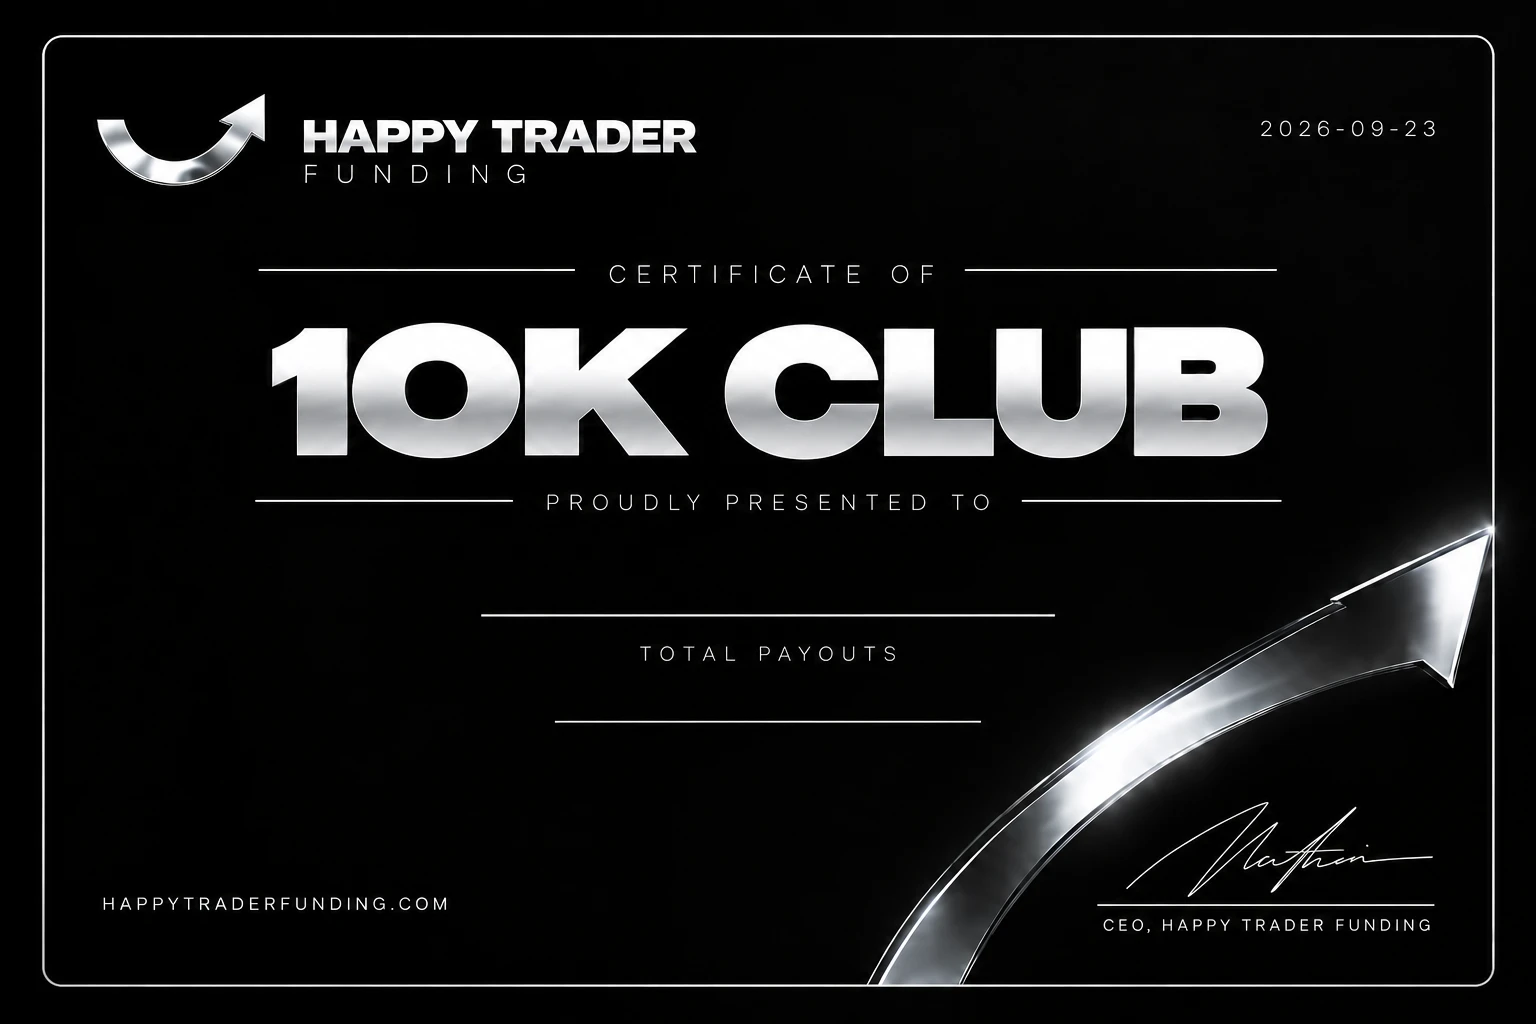
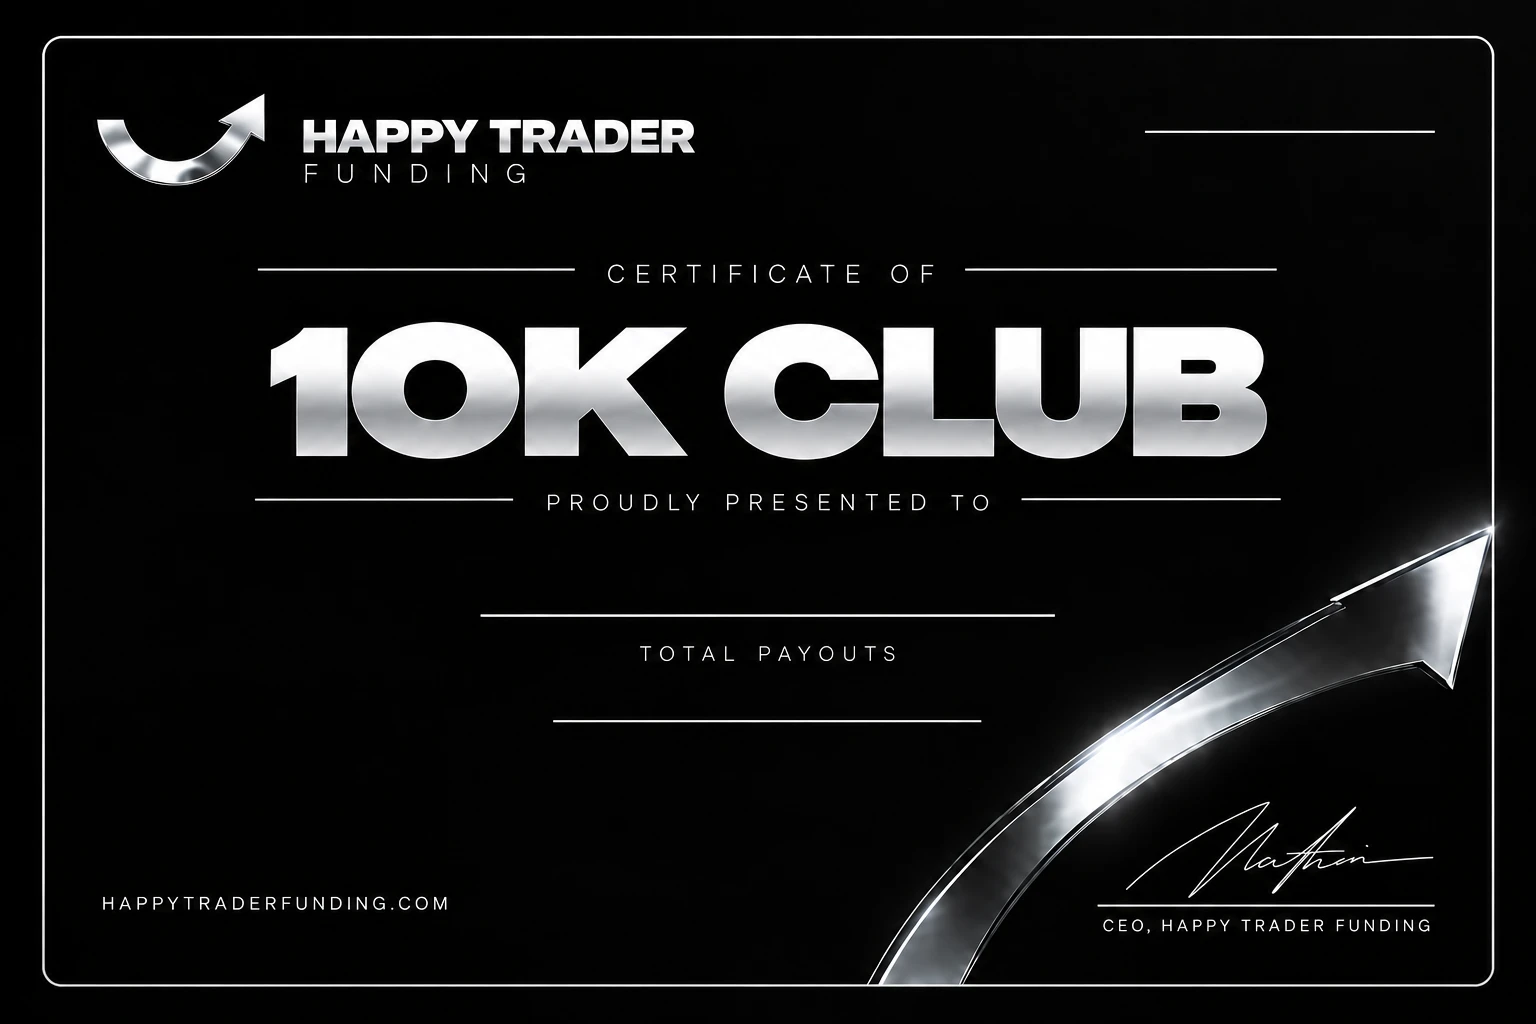
fix(rewards): replace 10K master with corrected blank + re-enable dynamic date (M6.1)
The corrected blank 10K Club master (no baked date) replaces the earlier one. The
10k-club v1 manifest re-adds the dynamic `date` field (right-aligned x=1435, y=110,
size 30, calibrated to the master's top-right date line at y=132), so 10K now
renders the dynamic YYYY-MM-DD date like the other four types. $10,000 stays the
fixed rendered milestone; recipient name stays dynamic. Nothing else changed.

Golden 10K re-rendered and visually verified (single clean date, name, $10,000).
Certificate regression green (97 M6 cert tests incl. 30 production-template tests
with the 10K static-region check now covering the date field). Docs updated to
mark the 10K baked-date correction resolved.

Claude-Session: https://claude.ai/code/session_019ptfMPPPz4ExYiJ1moJFEx

diff --git a/apps/server/src/platform/certificate-production-templates.test.ts b/apps/server/src/platform/certificate-production-templates.test.ts
@@ -24,7 +24,7 @@ const GOLDEN: Record<string, Record<string, string>> = {
   'funded-trader': { recipientName: 'NATETRADEZ', value: '50K', date: '2026-09-23' },
   payout: { recipientName: 'NATETRADEZ', value: '$5,000', date: '2026-09-23' },
   'account-completed': { recipientName: 'NATETRADEZ', value: '$25,000', date: '2026-09-23' },
-  '10k-club': { recipientName: 'NATETRADEZ', value: '$10,000' },
+  '10k-club': { recipientName: 'NATETRADEZ', value: '$10,000', date: '2026-09-23' },
   '50k-club': { recipientName: 'NATETRADEZ', value: '$50,000', date: '2026-09-23' },
 };
 

diff --git a/docs/production-certificate-assets-v1.md b/docs/production-certificate-assets-v1.md
@@ -35,7 +35,7 @@ the renderer only uses `v1` and never falls back to a fixture; a missing/invalid
 | Funded Trader | uppercase name | account size `50K` (from account config) | `YYYY-MM-DD` top-right |
 | Payout | uppercase name | actual trader-share payout `$5,000` | `YYYY-MM-DD` |
 | Account Completed | uppercase name | cumulative paid trader-share `$25,000` | `YYYY-MM-DD` |
-| $10K Club | uppercase name | LOCKED `$10,000` | (baked in master — see below) |
+| $10K Club | uppercase name | LOCKED `$10,000` | `YYYY-MM-DD` |
 | $50K Club | uppercase name | LOCKED `$50,000` | `YYYY-MM-DD` |
 
 - **Date** — `YYYY-MM-DD` in UTC from the reward's authoritative event timestamp
@@ -61,7 +61,7 @@ value, 400 for date. Colours `#F5F6F8` (recipient/value), `#C9CCD3` (date).
 | funded-trader | 768,569,74 | 768,690,44 | 1435,111,30 |
 | payout | 768,565,74 | 768,689,44 | 1435,103,30 |
 | account-completed | 768,558,74 | 768,685,44 | 1435,102,30 |
-| 10k-club | 768,573,74 | 768,691,44 | — (omitted) |
+| 10k-club | 768,573,74 | 768,691,44 | 1435,110,30 |
 | 50k-club | 768,574,74 | 768,690,44 | 1435,109,30 |
 
 recipientName width 980, value width 720, date width 360; all shrink-to-fit,
@@ -72,14 +72,9 @@ blank placement lines) and verified with golden renders
 
 ## OUTSTANDING asset corrections
 
-1. **10K master has a baked sample date.** Unlike the other four masters (blank
-   top-right date line), the supplied `10k-club` master has `2026-09-23` baked
-   into the top-right. To avoid a doubled/garbled date, the 10k manifest **omits**
-   the dynamic `date` field, so 10K certificates currently show that baked date
-   regardless of issuance date. **Required fix:** re-export the 10K master
-   **without** the baked date, then add the `date` field back to
-   `certificate-templates/10k-club/v1/manifest.json` (copy the `date` block from
-   `50k-club/v1/manifest.json`). No code change needed.
+1. **10K master baked date — RESOLVED.** The corrected blank 10K master (no baked
+   date) is installed and its manifest now renders the dynamic `YYYY-MM-DD` date
+   like the other four types (field at x=1435, y=110, size 30). No further action.
 
 2. **Print resolution for the 11×14 framed certificate.** The masters are
    1536×1024 (~110 DPI at 11×14). That is crisp on screen and in the PDF, but

diff --git a/docs/m6-1-production-certificate-integration-report.md b/docs/m6-1-production-certificate-integration-report.md
@@ -41,7 +41,7 @@ supplied WebP to PNG; decoded pixels only, no re-compression or resampling).
 - funded-trader: `recipientName` (uppercase), `value` = account size `50K`, `date` `YYYY-MM-DD`.
 - payout: `recipientName`, `value` = trader-share payout `$5,000`, `date`.
 - account-completed: `recipientName`, `value` = cumulative paid `$25,000`, `date`.
-- 10k-club: `recipientName`, `value` = LOCKED `$10,000` (date baked in master → dynamic date omitted, see §12).
+- 10k-club: `recipientName`, `value` = LOCKED `$10,000`, `date` (dynamic; the corrected blank master replaced the earlier baked-date one — see §12).
 - 50k-club: `recipientName`, `value` = LOCKED `$50,000`, `date`.
 
 Everything else is baked artwork and is never touched.
@@ -108,11 +108,13 @@ Prodigi. Fulfilled by owner operations through the existing 100K plaque queue.
 
 ## 12. Remaining blockers (asset corrections only — no code work)
 
-1. **10K master baked date** — re-export the 10K master without the baked
-   `2026-09-23`, then re-add the `date` field to its manifest (copy from 50k).
-   Until then 10K shows that fixed date. This is the one functional caveat.
+1. **10K master baked date — RESOLVED.** The corrected blank 10K master (no baked
+   date) was supplied and installed, and the dynamic `YYYY-MM-DD` date field was
+   re-enabled in its manifest (x=1435, y=110, size 30), matching the other four
+   types. `$10,000` remains the fixed rendered milestone; recipient stays dynamic.
 2. **11×14 print-resolution masters** — supply ~4200×3300 masters to enable
-   physical framed printing; re-calibrate manifests to the new canvas.
+   physical framed printing; re-calibrate manifests to the new canvas. (Only
+   outstanding item.)
 
 Everything else is done and green. No production credentials are required; Prodigi
 stays disabled; no real order/charge is made.

diff --git a/certificate-templates/README.md b/certificate-templates/README.md
@@ -44,14 +44,12 @@ never routed through the automated digital/Prodigi pipeline.
 | funded-trader | ✓ (uppercase) | account size `50K` | `YYYY-MM-DD` (top-right) |
 | payout | ✓ | payout amount `$5,000` | `YYYY-MM-DD` |
 | account-completed | ✓ | cumulative paid `$25,000` | `YYYY-MM-DD` |
-| 10k-club | ✓ | locked `$10,000` | — (see below) |
+| 10k-club | ✓ | locked `$10,000` | `YYYY-MM-DD` |
 | 50k-club | ✓ | locked `$50,000` | `YYYY-MM-DD` |
 
-**10k-club date:** the supplied 10k master has a **baked sample date** in the
-top-right, so its manifest omits the dynamic `date` field to avoid a double date.
-Re-export the 10k master **without** the baked date and add the `date` field back
-(copy the field block from `50k-club/v1/manifest.json`) to make it dynamic like
-the others. This is the one outstanding asset correction (see the M6.1 report).
+**10k-club date:** the corrected blank 10k master (no baked date) is installed and
+its manifest now renders the dynamic `date` like the other four types. (The earlier
+supplied 10k master had a baked sample date; that has been replaced.)
 
 ### Print resolution
 

diff --git a/docs/certificate-template-manifest.md b/docs/certificate-template-manifest.md
@@ -95,8 +95,8 @@ keep their frozen `templateVersion` and are never re-laid-out.
 
 The five V1 manifests are calibrated to the actual 1536×1024 master pixels
 (canvas `{width:1536,height:1024}`), with fields `recipientName` (center, Sans 700,
-74), `value` (center, Sans 700, 44) and `date` (right, Sans 400, 30) — the 10K
-manifest omits `date` because its master has a baked sample date. Field positions
+74), `value` (center, Sans 700, 44) and `date` (right, Sans 400, 30) on all five
+(the 10K's corrected blank master replaced the earlier baked-date one). Field positions
 were measured from the masters' blank placement lines
 (`apps/server/scripts/measure-cert-masters.mjs`) and verified with golden renders
 (`apps/server/scripts/render-golden-certs.mjs`). Full coordinate table:

diff --git a/docs/rewards-certificates-v1.md b/docs/rewards-certificates-v1.md
@@ -116,6 +116,6 @@ FUNDED value as the compact **account size** (`50K`), payout/completed as the
 actual paid amount, club types as the **locked** milestone value, and the date as
 **`YYYY-MM-DD`** (UTC, from the reward event). See
 `docs/production-certificate-assets-v1.md` and
-`docs/m6-1-production-certificate-integration-report.md`. The 10K master carries a
-baked sample date (its dynamic date field is omitted pending a corrected export);
-the 100K club remains a manual plaque.
+`docs/m6-1-production-certificate-integration-report.md`. The corrected blank 10K
+master is installed with the dynamic date re-enabled; the 100K club remains a
+manual plaque.
